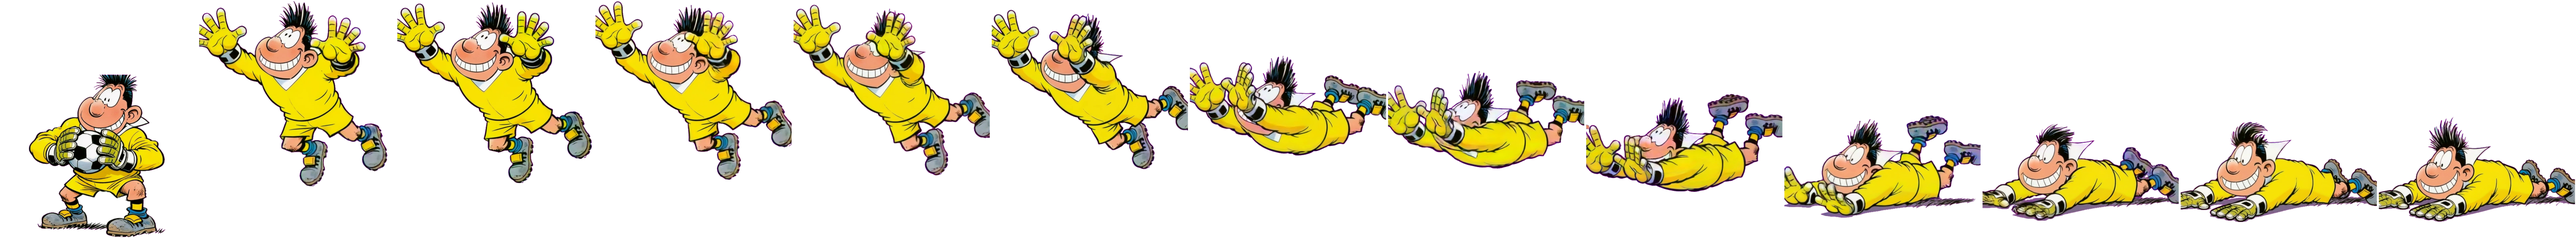
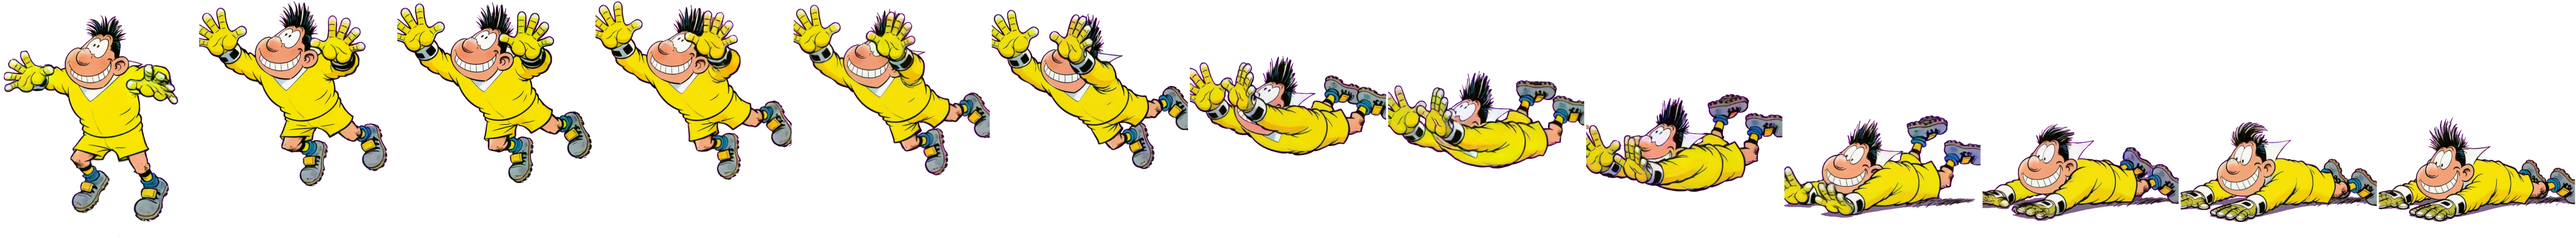
Shot window: keeper ready without the ball, sharp shooter, chance fits its coaster, no scorer slide after a goal
- keeper_window strips: picture 0 is now the open-handed ready pose (clip picture 36, dust cleaned, feet on the line); keeper_figure 0.93
- shooter uses the sharp duel sheets (PitchSprite.duel_spec, shared with the duel window)
- ShootoutLook.csv chance_size 32 so 100% stays inside the coaster
- Celebration.csv: slide row removed (the scorer was shoved back from the goal)

Claude-Session: https://claude.ai/code/session_01GDWokCLUpUV4h3GJajRfL6

Changed region(s): [[0.0, 0.0615, 0.0935, 1.0]]

diff --git a/tools/make_keeper_sheets.py b/tools/make_keeper_sheets.py
@@ -6,7 +6,8 @@ pitch and a front dive clip for the shot window, both on flat magenta).
 Reads art_source/keeper/*.mp4 and writes assets/players/keeper/:
   keeper_pitch_home.png   side on, facing right (the home goal is on the left), swaying on the spot; a strip
   keeper_pitch_away.png   the same in a green kit for the other side (the match mirrors him)
-  keeper_window.png       front on: frame 0 = ready with the ball, then the dive to his right
+  keeper_window.png       front on: frame 0 = ready, arms open, no ball (Anthony 24 Oct: he should not hold the
+                          ball before he catches it), then the dive to his right
   keeper_window_away.png  the same in the green kit (their keeper, when you shoot)
 Frame counts and sizes go in data/GoalieLook.csv."""
 import sys
@@ -32,6 +33,29 @@ def green_kit(im):
     return out
 
 
+def no_dust(im):
+    """The open-armed ready picture (clip picture 36) has take-off dust round his boots: white and pink go."""
+    import cv2
+    a = np.array(im); bb = im.getbbox(); top = bb[1] + int((bb[3] - bb[1]) * 0.70)
+    r, g, b = [a[..., i].astype(int) for i in range(3)]
+    bad = ((r > 200) & (g > 190) & (b > 190)) | ((r > 180) & (b > 170) & (r - g > 15))
+    bad |= a[..., 3] < 60          # faint dust
+    bad[:top] = False
+    a[bad, 3] = 0
+    n, lab, st, _ = cv2.connectedComponentsWithStats((a[..., 3] > 128).astype(np.uint8))
+    if n > 1:
+        big = max(range(1, n), key=lambda i: st[i, 4])
+        a[(lab != big) & (lab > 0), 3] = 0
+    return Image.fromarray(a)
+
+
+def on_the_line(im, ground):
+    """Moved down so his boots stand where the old ready picture's did (he is a hop off the grass in the clip)."""
+    out = Image.new('RGBA', im.size, (0, 0, 0, 0))
+    out.alpha_composite(im, (0, ground - im.getbbox()[3]))
+    return out
+
+
 def no_white_patch(im):
     """The start picture had a white patch between his legs (the old sticker's background)."""
     a = np.array(im); bb = im.getbbox(); top = bb[1] + int((bb[3] - bb[1]) * 0.62)
@@ -49,6 +73,7 @@ if __name__ == '__main__':
     strip([green_kit(im) for im in ims], 200, OUT / 'keeper_pitch_away.png')
     dive = frames(str(SRC / 'keeper_front_dive.mp4'))
     picks = [44, 47, 50, 53, 56, 72, 76, 80, 84, 88, 92, 96]      # no take-off dust, no floating ball
-    window = [no_white_patch(cut(dive[0]))] + [cut(dive[i]) for i in picks]
+    ready = on_the_line(no_dust(cut(dive[36])), no_white_patch(cut(dive[0])).getbbox()[3])
+    window = [ready] + [cut(dive[i]) for i in picks]
     strip(window, 520, OUT / 'keeper_window.png')
     strip([green_kit(im) for im in window], 520, OUT / 'keeper_window_away.png')

diff --git a/tools/make_drawn_duel_sheet.py b/tools/make_drawn_duel_sheet.py
@@ -10,7 +10,7 @@
 #  full-size 900 x 1500 video frames (art_tool/thomas_video in the project
 #  files, made 18 Oct), big enough that the duel never has to blow them up.
 #  CELL x TALL px a frame (Tuning.csv duel_cell), all facing right (east);
-#  the duel mirrors the right-hand player. Five rows (DuelArena.DUEL_ROWS):
+#  the duel mirrors the right-hand player. Five rows (PitchSprite.DUEL_ROWS):
 #      row 0  idle   4 frames  (standing)
 #      row 1  run    8 frames
 #      row 2  kick   9 frames  (the ability)
